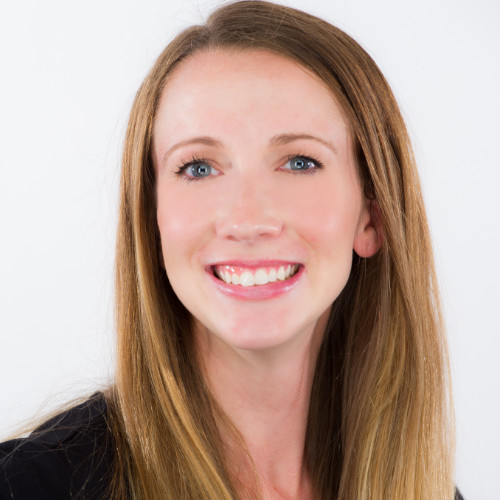
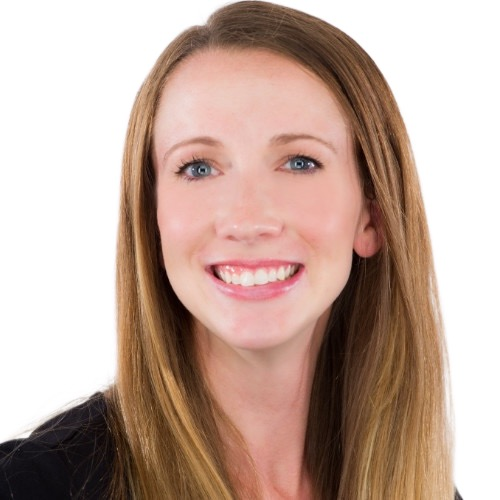
Updated lots of images and upscaled a few

diff --git a/components/hero-section.tsx b/components/hero-section.tsx
@@ -1,17 +1,17 @@
-import Link from "next/link"
-import { Button } from "@/components/ui/button"
-import { ArrowRight, Play } from "lucide-react"
+import Link from "next/link";
+import { Button } from "@/components/ui/button";
+import { ArrowRight, Play } from "lucide-react";
 
 export function HeroSection() {
   return (
     <section className="relative min-h-screen flex items-center justify-center pt-16 overflow-hidden">
       {/* Background gradient */}
       <div className="absolute inset-0 bg-[radial-gradient(ellipse_at_top,_var(--tw-gradient-stops))] from-primary/10 via-background to-background" />
-      
+
       {/* Animated lines decoration */}
       <div className="absolute left-8 top-1/4 bottom-1/4 w-px bg-gradient-to-b from-transparent via-primary/30 to-transparent hidden lg:block" />
       <div className="absolute right-8 top-1/3 bottom-1/3 w-px bg-gradient-to-b from-transparent via-accent/30 to-transparent hidden lg:block" />
-      
+
       <div className="relative max-w-7xl mx-auto px-4 sm:px-6 lg:px-8 py-20 sm:py-32">
         <div className="text-center">
           {/* Badge */}
@@ -20,21 +20,23 @@ export function HeroSection() {
               <span className="animate-ping absolute inline-flex h-full w-full rounded-full bg-primary opacity-75"></span>
               <span className="relative inline-flex rounded-full h-2 w-2 bg-primary"></span>
             </span>
-            <span className="text-sm text-muted-foreground">Now accepting new athletes</span>
+            <span className="text-sm text-muted-foreground">
+              Now accepting new athletes
+            </span>
           </div>
 
           {/* Main heading */}
           <h1 className="font-display text-4xl sm:text-5xl md:text-6xl lg:text-7xl font-bold text-foreground tracking-tight mb-6 text-balance">
-            Run Faster.{" "}
-            <span className="text-primary">Train Smarter.</span>
+            Run Faster. <span className="text-primary">Train Smarter.</span>
             <br />
             Achieve More.
           </h1>
 
           {/* Subtitle */}
           <p className="max-w-2xl mx-auto text-lg sm:text-xl text-muted-foreground mb-10 leading-relaxed text-pretty">
-            Join Mile Mark Running Club and transform your running with personalized coaching, 
-            structured training plans, and a supportive community of dedicated professionals and athletes.
+            Join Mile Mark Running Club and transform your running with
+            personalized coaching, structured training plans, and a supportive
+            community of dedicated professionals and athletes.
           </p>
 
           {/* CTA Buttons */}
@@ -45,7 +47,12 @@ export function HeroSection() {
                 <ArrowRight className="ml-2 h-5 w-5" />
               </Link>
             </Button>
-            <Button asChild variant="outline" size="lg" className="text-base px-8">
+            <Button
+              asChild
+              variant="outline"
+              size="lg"
+              className="text-base px-8"
+            >
               <Link href="#about">
                 <Play className="mr-2 h-5 w-5" />
                 Learn More
@@ -68,21 +75,15 @@ export function HeroSection() {
                   <div className="font-display text-3xl sm:text-4xl font-bold text-primary mb-1">
                     {stat.value}
                   </div>
-                  <div className="text-sm text-muted-foreground">{stat.label}</div>
+                  <div className="text-sm text-muted-foreground">
+                    {stat.label}
+                  </div>
                 </div>
               ))}
             </div>
           </div>
         </div>
       </div>
-
-      {/* Scroll indicator */}
-      <div className="absolute bottom-8 left-1/2 -translate-x-1/2 flex flex-col items-center gap-2">
-        <span className="text-xs text-muted-foreground uppercase tracking-widest">Scroll</span>
-        <div className="w-6 h-10 rounded-full border-2 border-muted-foreground/30 flex justify-center pt-2">
-          <div className="w-1 h-2 bg-primary rounded-full animate-bounce" />
-        </div>
-      </div>
     </section>
-  )
+  );
 }

diff --git a/components/team-section.tsx b/components/team-section.tsx
@@ -17,6 +17,14 @@ const teamMembers = [
     achievements: ["Former Collegiate Runner"],
     profile_img: "/sipes_photo.jpeg",
   },
+  {
+    name: "Ella Zeigler",
+    role: "Coach",
+    specialty: "XC and Long Distance",
+    initials: "EZ",
+    achievements: ["Former Collegiate Runner"],
+    profile_img: "/ella_photo.JPG",
+  },
 ];
 
 export function TeamSection() {

diff --git a/components/about-section.tsx b/components/about-section.tsx
@@ -7,7 +7,7 @@ export function AboutSection() {
           <div className="relative">
             <div className="aspect-4/5 rounded-2xl bg-secondary overflow-hidden relative w-[85%] mx-auto">
               <img
-                src="/coach_photo.png"
+                src="/coach_photo.jpeg"
                 alt="Coach"
                 className="absolute inset-0 w-full h-full object-cover"
               />